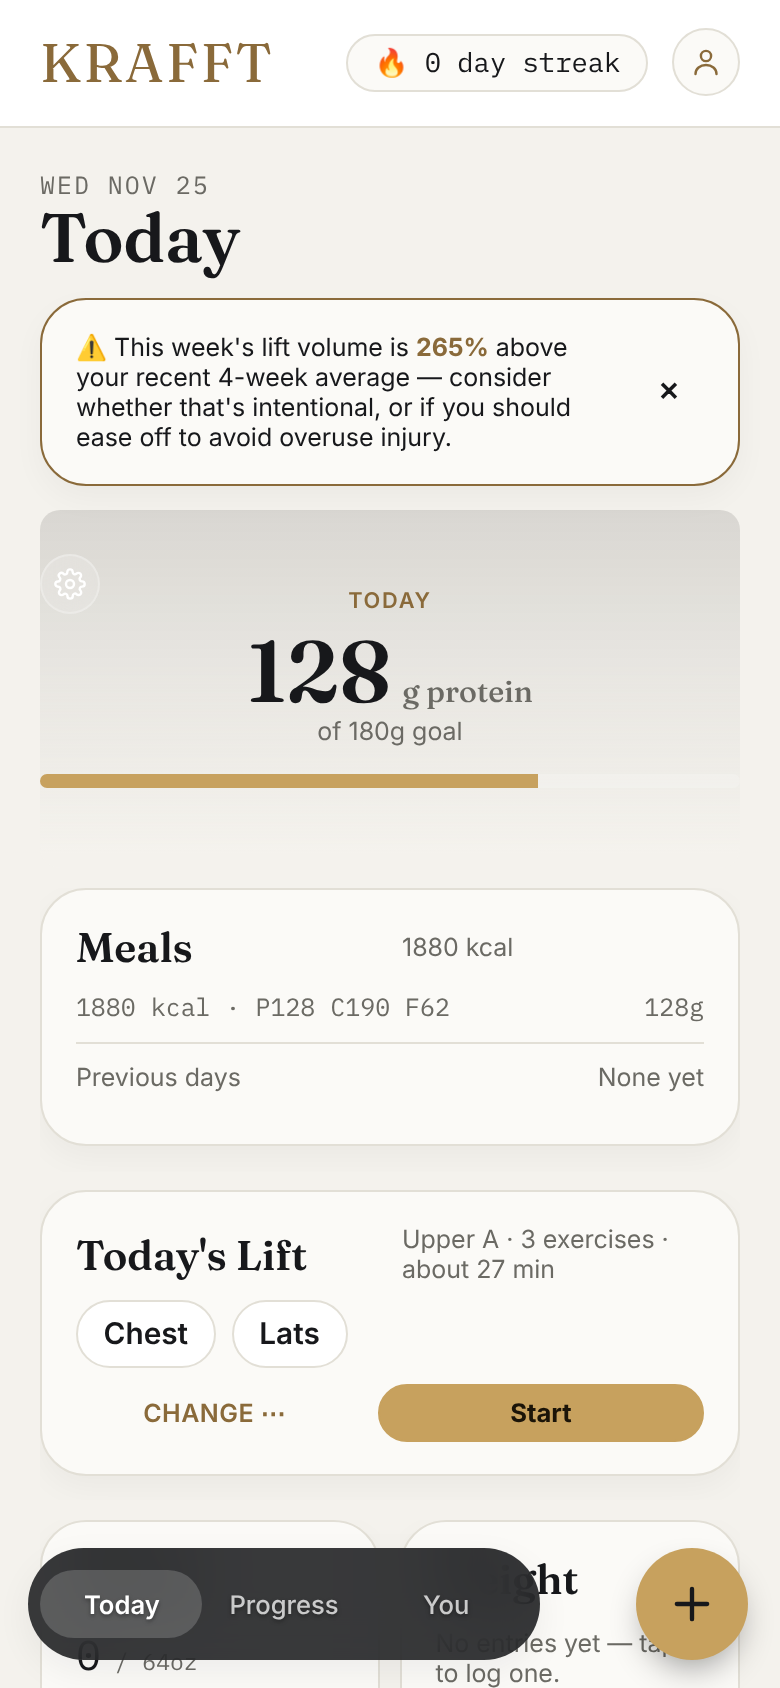
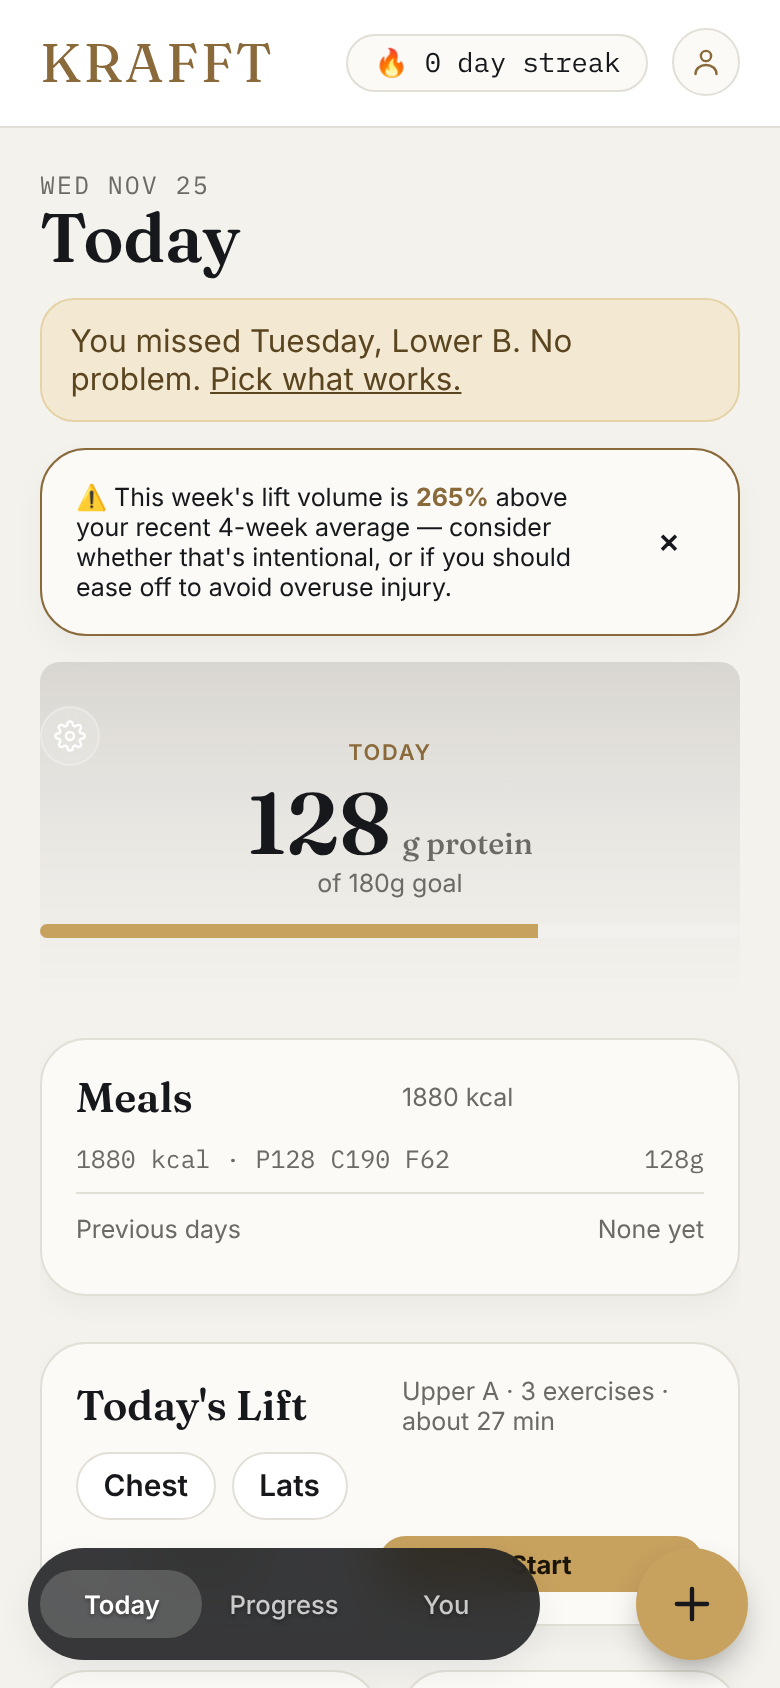
Smart program batch: Phase 4 - missed sessions and welcome back (phones 5-6)
A scheduled day with no logged workout becomes "missed" purely by
derivation (planWeek(), never a stored failure record) and surfaces as
a soft banner on Today, opening a sheet with the three previewed
options from Phase 1's missedOptions(): do it today (cascades the rest
of the week's rotation by a day via schedule_overrides_this_week), skip
(targets unchanged), or fold into the next day (merges the missed
day's main lifts into the next scheduled day's display, accessories
trimmed first, capped at the configured added minutes).

A welcome-back banner offers one lighter session after 14+ days away,
using the existing welcomeBack() tiers (90%/80%); the multiplier lives
on the live session object only, so it affects just that one session's
goal line and never writes back to the plan. "Use my normal weights" is
always available and nothing is ever marked red.

Claude-Session: https://claude.ai/code/session_015L9cyNh1v2vMK9ZcFbmR4a

diff --git a/index.html b/index.html
@@ -485,6 +485,8 @@
      button sheet, opened only from plain tabs today). */
   #whySheet { z-index: 51; }
   #whyBackdrop { z-index: 50; }
+  #missedSheet, #welcomeBackSheet { z-index: 51; }
+  #missedBackdrop, #welcomeBackBackdrop { z-index: 50; }
   .plus-log-field { border: 1px solid var(--border); background: var(--surface); border-radius: 14px;
     padding: 0.8rem 0.9rem; display: flex; align-items: center; gap: 0.6rem; }
   .plus-log-field input { flex: 1; border: none; background: transparent; outline: none; font: inherit; color: var(--text); }
@@ -1420,6 +1422,12 @@
        this same element rather than each building its own. -->
   <div class="plus-sheet hidden" id="whySheet"></div>
   <div class="plus-backdrop hidden" id="whyBackdrop"></div>
+  <!-- Missed-session sheet (SMART PROGRAM batch, phone 5) -->
+  <div class="plus-sheet hidden" id="missedSheet"></div>
+  <div class="plus-backdrop hidden" id="missedBackdrop"></div>
+  <!-- Welcome-back sheet (SMART PROGRAM batch, phone 6) -->
+  <div class="plus-sheet hidden" id="welcomeBackSheet"></div>
+  <div class="plus-backdrop hidden" id="welcomeBackBackdrop"></div>
   <button class="plus-fab" id="plusFab" aria-label="Log anything">
     <svg viewBox="0 0 24 24" fill="none" stroke="currentColor" stroke-width="2" stroke-linecap="round" stroke-linejoin="round"><path d="M12 5v14M5 12h14"/></svg>
   </button>
@@ -4008,6 +4016,186 @@ document.addEventListener('click', (e) => {
   if (trigger) openWhySheet(trigger.dataset.whyOpen);
 });
 
+// ── Missed session (SMART PROGRAM batch, phone 5) ───────────────────────
+// Finds the most recent scheduled-but-not-logged day this week, if any.
+// planWeek() derives "missed" fresh on every call (principle 2/5: never
+// stored as a failure record) - the moment an override resolves that
+// date (skip/moved_away/moved_in all do, via effectiveBlockDayIndex),
+// it stops showing up here, so the banner never reappears once handled.
+function findMissedDay() {
+  const block = state.profile?.active_training_block;
+  if (!block) return null;
+  const overrides = pruneScheduleOverrides(state.profile?.schedule_overrides_this_week);
+  const week = planWeek(block, overrides, state.lifts, localDateStr());
+  const missedEntries = week.filter((d) => d.status === 'missed');
+  if (!missedEntries.length) return null;
+  const entry = missedEntries[missedEntries.length - 1];
+  const day = block.blockDays[entry.dayIndex];
+  const dayOfWeekLabel = new Date(`${entry.date}T00:00:00`).toLocaleDateString('en-US', { weekday: 'long' });
+  return { date: entry.date, dayIndex: entry.dayIndex, dayLabel: day?.label || '', dayOfWeekLabel };
+}
+
+function missedSessionBannerHtml() {
+  const missed = findMissedDay();
+  if (!missed) return '';
+  return `<div class="banner" id="missedSessionBanner" style="cursor:pointer;">You missed ${esc(missed.dayOfWeekLabel)}, ${esc(missed.dayLabel)}. No problem. <span style="text-decoration:underline;">Pick what works.</span></div>`;
+}
+
+let missedSessionChoice = null; // 'do_it_today' | 'skip' | 'fold_into_next' | null - reset each time the sheet opens
+function openMissedSessionSheet() {
+  if (!findMissedDay()) return;
+  missedSessionChoice = null;
+  renderMissedSessionSheet();
+  $('#missedSheet').classList.remove('hidden');
+  $('#missedBackdrop').classList.remove('hidden');
+}
+function closeMissedSessionSheet() {
+  $('#missedSheet').classList.add('hidden');
+  $('#missedBackdrop').classList.add('hidden');
+}
+function renderMissedSessionSheet() {
+  const missed = findMissedDay();
+  const sheet = $('#missedSheet');
+  if (!missed || !sheet) { closeMissedSessionSheet(); return; }
+  const day = state.profile.active_training_block.blockDays[missed.dayIndex];
+  const plannedSets = day.exercises.reduce((s, e) => s + (e.sets || 0), 0);
+  const plannedMinutes = Math.round(day.exercises.length * 9);
+  const opts = missedOptions(plannedSets, plannedMinutes);
+  sheet.innerHTML = `
+    <div class="plus-sheet-handle"></div>
+    <h3 style="margin:0 0 0.2rem;">${esc(day?.label || '')}, missed ${esc(missed.dayOfWeekLabel.slice(0, 3))}</h3>
+    ${opts.map((o) => `
+      <label class="row" style="justify-content:flex-start;align-items:flex-start;gap:0.5rem;padding:0.5rem 0;border-top:1px solid var(--border);cursor:pointer;">
+        <input type="radio" name="missedChoice" data-missed-choice="${o.key}" ${missedSessionChoice === o.key ? 'checked' : ''} style="margin-top:0.2rem;">
+        <span><strong>${esc(o.label)}</strong><br><span class="muted small">${esc(o.effect)}</span></span>
+      </label>`).join('')}
+    <p class="muted small" style="margin-top:0.6rem;" data-why-open="frequency">Where you train it matters less than how many hard sets you get each week. <span style="text-decoration:underline;">Why?</span></p>
+    <button class="btn btn-block" id="missedApplyBtn" style="margin-top:0.3rem;width:100%;" ${missedSessionChoice ? '' : 'disabled'}>Apply</button>
+  `;
+  $$('[data-missed-choice]', sheet).forEach((input) => input.addEventListener('change', () => { missedSessionChoice = input.dataset.missedChoice; renderMissedSessionSheet(); }));
+  const applyBtn = $('#missedApplyBtn', sheet);
+  if (applyBtn) applyBtn.addEventListener('click', () => applyMissedSessionChoice(missed));
+}
+$('#missedBackdrop').addEventListener('click', closeMissedSessionSheet);
+document.addEventListener('click', (e) => { if (e.target.closest('#missedSessionBanner')) openMissedSessionSheet(); });
+
+// Applies whichever of the three missed-session options the user picked
+// (phone 5) - all three go through schedule_overrides_this_week, the
+// same additive, weekly-pruned mechanism the existing reschedule menu
+// already uses (see applyScheduleChange above it), never a rewrite of
+// the plan's own saved days/sets, and never a stored "failure" record.
+async function applyMissedSessionChoice(missed) {
+  const block = state.profile?.active_training_block;
+  if (!block || !missedSessionChoice) return;
+  const overrides = { ...pruneScheduleOverrides(state.profile?.schedule_overrides_this_week) };
+  const today = localDateStr();
+  if (missedSessionChoice === 'skip') {
+    overrides[missed.date] = { action: 'skip' };
+  } else if (missedSessionChoice === 'do_it_today') {
+    // "Shifts the rest of the week by a day": today takes on the missed
+    // day's workout, and every later day in this week takes on the
+    // PREVIOUS day's original workout - one day's worth of content runs
+    // off the end of the week rather than wrapping around.
+    const weekDates = [];
+    let d = today;
+    while (currentWeekKey(d) === currentWeekKey(today)) { weekDates.push(d); d = subtractDays(d, -1); }
+    const originals = weekDates.map((date) => effectiveBlockDayIndex(block, date, overrides));
+    overrides[missed.date] = { action: 'moved_away' };
+    let carry = missed.dayIndex;
+    weekDates.forEach((date, i) => {
+      overrides[date] = carry == null ? { action: 'skip' } : { action: 'moved_in', dayIndex: carry };
+      carry = originals[i];
+    });
+  } else if (missedSessionChoice === 'fold_into_next') {
+    const nextDate = subtractDays(today, -1);
+    overrides[missed.date] = { action: 'moved_away' };
+    overrides[nextDate] = { ...(overrides[nextDate] || {}), foldedDayIndex: missed.dayIndex };
+  }
+  const { error } = await supabase.from('profiles').update({ schedule_overrides_this_week: overrides }).eq('id', state.user.id);
+  if (error) { toast('Could not reschedule: ' + error.message); return; }
+  state.profile = { ...state.profile, schedule_overrides_this_week: overrides };
+  closeMissedSessionSheet();
+  missedSessionChoice = null;
+  toast("Updated this week's schedule.");
+  renderAll();
+}
+
+// The exercise list to show as "the plan" for a date, honoring a
+// "fold into next day" choice from the missed-session sheet - the missed
+// day's compound/main lifts are appended (trimmed to the config's added-
+// minutes cap), accessories-first-trimmed per the spec ("trims
+// accessories"). Never rewrites blockDays itself - purely a display-time
+// merge, same spirit as currentDeload()'s read-only overlay.
+function resolvedDayExercises(block, dayIndex, dateStr, overrides) {
+  const day = dayIndex != null ? block.blockDays[dayIndex] : null;
+  const ownExercises = day ? day.exercises : [];
+  const foldedIdx = overrides?.[dateStr]?.foldedDayIndex;
+  const foldedDay = foldedIdx != null ? block.blockDays[foldedIdx] : null;
+  if (!foldedDay) return ownExercises;
+  const mainFromFolded = foldedDay.exercises.filter((e) => exerciseDefFor(e.name)?.movement_type === 'compound');
+  const maxAdded = Math.max(0, Math.floor(PROGRAM_RULES_CONFIG.missedSession.foldMaxAddedMinutes / 9));
+  return [...ownExercises, ...mainFromFolded.slice(0, maxAdded)];
+}
+
+// ── Welcome back (SMART PROGRAM batch, phone 6) ─────────────────────────
+// Only offered before today's own session has started - "never blocks
+// the user from normal weights" means it's a one-time nudge at the start
+// of the day, not something that can reappear mid-session or block it.
+function welcomeBackState() {
+  if (!computeTodaysLiftCtx().empty) return null;
+  return welcomeBack(daysSinceLastWorkout(state.lifts, localDateStr()));
+}
+function welcomeBackBannerHtml() {
+  const wb = welcomeBackState();
+  if (!wb) return '';
+  return `<div class="banner" id="welcomeBackBanner" style="cursor:pointer;">Welcome back. It has been ${wb.daysSince} days since your last workout. <span style="text-decoration:underline;">Ease in?</span></div>`;
+}
+function openWelcomeBackSheet() {
+  const wb = welcomeBackState();
+  if (!wb) return;
+  renderWelcomeBackSheet(wb);
+  $('#welcomeBackSheet').classList.remove('hidden');
+  $('#welcomeBackBackdrop').classList.remove('hidden');
+}
+function closeWelcomeBackSheet() {
+  $('#welcomeBackSheet').classList.add('hidden');
+  $('#welcomeBackBackdrop').classList.add('hidden');
+}
+function renderWelcomeBackSheet(wb) {
+  const sheet = $('#welcomeBackSheet');
+  if (!sheet) return;
+  sheet.innerHTML = `
+    <div class="plus-sheet-handle"></div>
+    <h3 style="margin:0 0 0.2rem;">Welcome back</h3>
+    <p style="margin:0 0 0.4rem;">It has been ${wb.daysSince} days since your last workout.</p>
+    <p class="muted small" style="margin:0 0 0.6rem;">Ease in with one lighter session?</p>
+    <div class="card" style="background:var(--surface-2);">
+      <div class="row" style="justify-content:space-between;padding:0.2rem 0;"><span class="small">Weights</span><span class="mono small">${Math.round(wb.weightMultiplier * 100)}% of last</span></div>
+      <div class="row" style="justify-content:space-between;padding:0.2rem 0;"><span class="small">Sets</span><span class="mono small">as planned</span></div>
+      <div class="row" style="justify-content:space-between;padding:0.2rem 0;"><span class="small">Then</span><span class="mono small">normal targets</span></div>
+    </div>
+    <p class="muted small" style="margin:0.6rem 0;" data-why-open="double_progression_welcomeback_swap">Our default for 14 to 27 days away. 28+ days uses 80%. Not from a study, so you can change or skip it. <span style="text-decoration:underline;">Why?</span></p>
+    <button class="btn btn-primary" id="welcomeBackStartBtn" style="width:100%;margin-bottom:0.4rem;">Start lighter session</button>
+    <button class="btn btn-ghost" id="welcomeBackNormalBtn" style="width:100%;">Use my normal weights</button>
+  `;
+  $('#welcomeBackStartBtn', sheet).addEventListener('click', () => startWelcomeBackSession(wb));
+  $('#welcomeBackNormalBtn', sheet).addEventListener('click', () => { closeWelcomeBackSheet(); startOrContinueWorkoutFromCard(); });
+}
+$('#welcomeBackBackdrop').addEventListener('click', closeWelcomeBackSheet);
+document.addEventListener('click', (e) => { if (e.target.closest('#welcomeBackBanner')) openWelcomeBackSheet(); });
+
+// "Stored; the engine treats it as the user's choice for THIS session
+// only" (same evaporates-with-the-session rule as a goal-line override) -
+// welcomeBackMultiplier lives on the live session object itself, never on
+// the block/profile, so it never persists past today.
+function startWelcomeBackSession(wb) {
+  closeWelcomeBackSheet();
+  const session = wlsEnsureSession();
+  session.welcomeBackMultiplier = wb.weightMultiplier;
+  wlsSave(session);
+  startOrContinueWorkoutFromCard();
+}
+
 // ══════════════════════════════════════════════════════════════════
 // SHARED: sum + streaks
 // ══════════════════════════════════════════════════════════════════
@@ -5122,7 +5310,7 @@ function todaysLiftSummaryHtml() {
   const restToday = !!activeBlock && todaysDayIndex == null; // explicitly skipped/moved away this week — never mutates the block itself
   const hasPlanned = !!((activeBlock && !restToday) || state.plan);
   const todaysEntry = overrides[localDateStr()];
-  const dayExercises = activeBlock && todaysDayIndex != null ? activeBlock.blockDays[todaysDayIndex]?.exercises : null;
+  const dayExercises = activeBlock && todaysDayIndex != null ? resolvedDayExercises(activeBlock, todaysDayIndex, localDateStr(), overrides) : null;
   let label, sub;
   if (!ctx.empty && !ctx.ended) {
     label = 'Continue';
@@ -5971,6 +6159,8 @@ function renderDashboard() {
     <div class="mono small" style="text-transform:uppercase;letter-spacing:0.08em;color:var(--text-dim);margin-bottom:0.1rem;">${esc(todayHeaderDate)}</div>
     <div class="pagetitle" style="margin:0 0 0.6rem;">Today</div>
     ${achievementUnlockBannerHtml()}
+    ${missedSessionBannerHtml()}
+    ${welcomeBackBannerHtml()}
     ${showSpikeWarning ? `
     <div class="card pr-banner">
       <div class="small">⚠ This week's lift volume is <strong style="color:var(--accent);">${volumeSpike.pctAbove}%</strong> above your recent 4-week average — consider whether that's intentional, or if you should ease off to avoid overuse injury.</div>
@@ -9806,10 +9996,11 @@ function computeDoubleProgressionGoal(exerciseName, repRangeString) {
   if (t.action === 'first_session') return null;
   const activeBlock = state.profile?.active_training_block;
   const onDeload = activeBlock && !!currentDeload(ensureBlockMeta(activeBlock), localDateStr());
-  const deloadWeight = (w) => (onDeload ? applyDeloadToWeight(w, step) : w);
-  const note = onDeload ? 'Deload week: weight reduced about 10%.' : t.note;
-  if (t.repsPerSet) return { weight: deloadWeight(t.weight), reps: Math.min(...t.repsPerSet), action: t.action, note };
-  return { weight: deloadWeight(t.weight), reps: t.reps, action: t.action, note };
+  const wbMultiplier = liveWorkoutSession?.date === localDateStr() ? liveWorkoutSession?.welcomeBackMultiplier : null;
+  const adjustWeight = (w) => roundToStep((onDeload ? applyDeloadToWeight(w, step) : w) * (wbMultiplier || 1), step);
+  const note = onDeload ? 'Deload week: weight reduced about 10%.' : wbMultiplier ? `Welcome back: weight reduced to ${Math.round(wbMultiplier * 100)}% for this session.` : t.note;
+  if (t.repsPerSet) return { weight: adjustWeight(t.weight), reps: Math.min(...t.repsPerSet), action: t.action, note };
+  return { weight: adjustWeight(t.weight), reps: t.reps, action: t.action, note };
 }
 
 // Tap-the-goal-line override (Phase 2.1): "stored; the engine treats it
